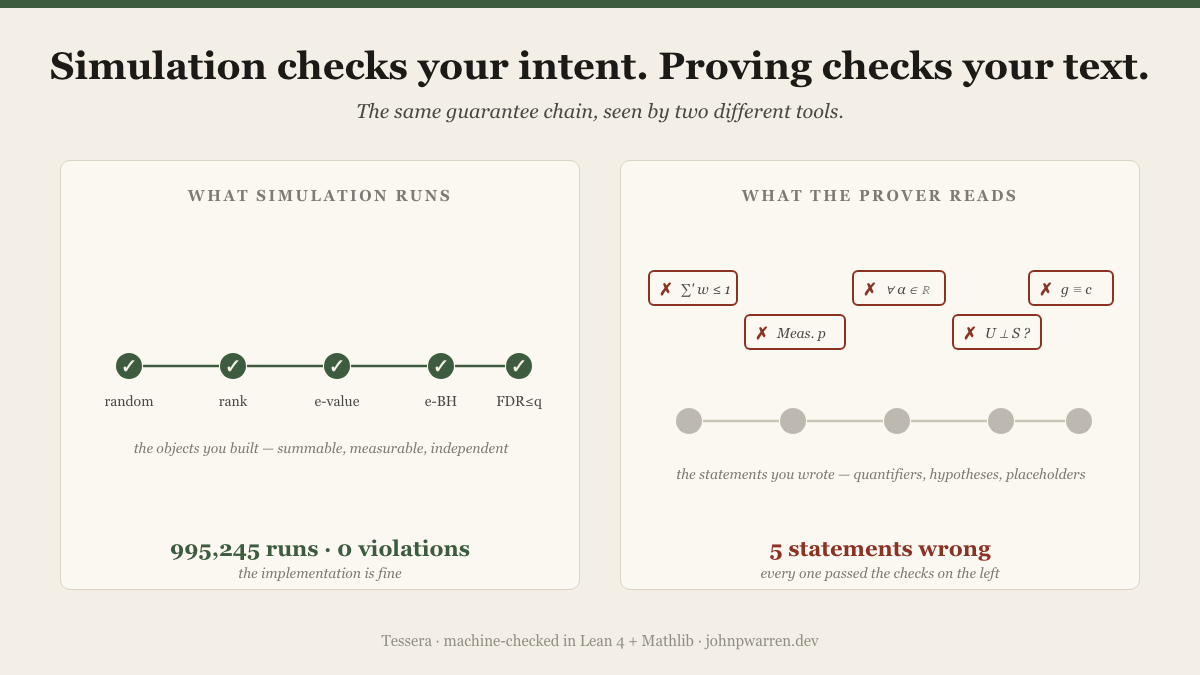
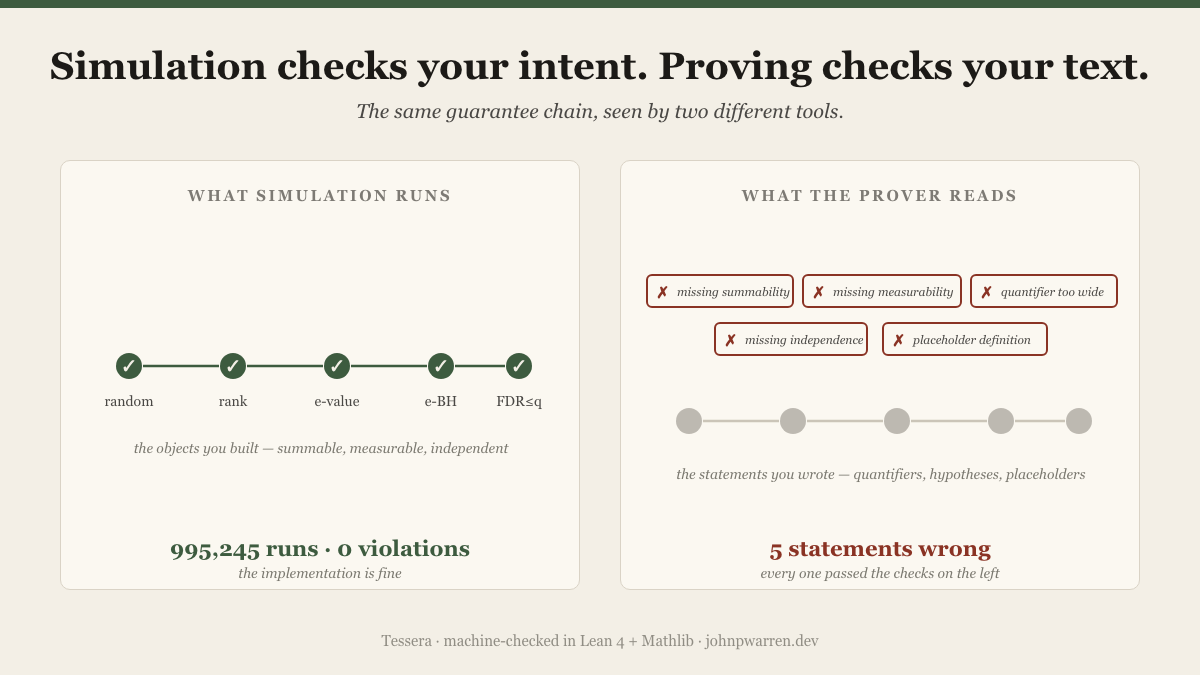
assets: plain-English statement tags on the LinkedIn diagram right panel
Math shorthand replaced with readable labels: missing summability, missing
measurability, quantifier too wide, missing independence, placeholder
definition. Re-rendered and eyeballed; layout reflowed to a 3+2 stagger.

Changed region(s): [[0.5242, 0.4044, 0.9558, 0.5289]]

diff --git a/linkedin/2026-07-tessera-lean-diagram.html b/linkedin/2026-07-tessera-lean-diagram.html
@@ -109,30 +109,30 @@
         </g>
         <!-- five statement tags, red-crossed -->
         <g font-family="Georgia, serif">
-          <g transform="translate(8,40)">
-            <rect width="88" height="34" rx="5" fill="none" stroke="#8A3324" stroke-width="2"/>
-            <text x="12" y="23" fill="#8A3324" font-size="17" font-weight="bold">✗</text>
-            <text x="32" y="23" fill="#4A4845" font-size="14" font-style="italic">∑' w ≤ 1</text>
+          <g transform="translate(6,44)">
+            <rect width="146" height="32" rx="5" fill="none" stroke="#8A3324" stroke-width="2"/>
+            <text x="11" y="22" fill="#8A3324" font-size="16" font-weight="bold">✗</text>
+            <text x="30" y="21" fill="#4A4845" font-size="12" font-style="italic">missing summability</text>
           </g>
-          <g transform="translate(104,84)">
-            <rect width="100" height="34" rx="5" fill="none" stroke="#8A3324" stroke-width="2"/>
-            <text x="12" y="23" fill="#8A3324" font-size="17" font-weight="bold">✗</text>
-            <text x="32" y="23" fill="#4A4845" font-size="14" font-style="italic">Meas. p</text>
+          <g transform="translate(162,44)">
+            <rect width="158" height="32" rx="5" fill="none" stroke="#8A3324" stroke-width="2"/>
+            <text x="11" y="22" fill="#8A3324" font-size="16" font-weight="bold">✗</text>
+            <text x="30" y="21" fill="#4A4845" font-size="12" font-style="italic">missing measurability</text>
           </g>
-          <g transform="translate(212,40)">
-            <rect width="92" height="34" rx="5" fill="none" stroke="#8A3324" stroke-width="2"/>
-            <text x="12" y="23" fill="#8A3324" font-size="17" font-weight="bold">✗</text>
-            <text x="32" y="23" fill="#4A4845" font-size="14" font-style="italic">∀ α ∈ ℝ</text>
+          <g transform="translate(330,44)">
+            <rect width="146" height="32" rx="5" fill="none" stroke="#8A3324" stroke-width="2"/>
+            <text x="11" y="22" fill="#8A3324" font-size="16" font-weight="bold">✗</text>
+            <text x="30" y="21" fill="#4A4845" font-size="12" font-style="italic">quantifier too wide</text>
           </g>
-          <g transform="translate(312,84)">
-            <rect width="88" height="34" rx="5" fill="none" stroke="#8A3324" stroke-width="2"/>
-            <text x="12" y="23" fill="#8A3324" font-size="17" font-weight="bold">✗</text>
-            <text x="32" y="23" fill="#4A4845" font-size="14" font-style="italic">U ⟂ S ?</text>
+          <g transform="translate(74,92)">
+            <rect width="152" height="32" rx="5" fill="none" stroke="#8A3324" stroke-width="2"/>
+            <text x="11" y="22" fill="#8A3324" font-size="16" font-weight="bold">✗</text>
+            <text x="30" y="21" fill="#4A4845" font-size="12" font-style="italic">missing independence</text>
           </g>
-          <g transform="translate(388,40)">
-            <rect width="84" height="34" rx="5" fill="none" stroke="#8A3324" stroke-width="2"/>
-            <text x="12" y="23" fill="#8A3324" font-size="17" font-weight="bold">✗</text>
-            <text x="32" y="23" fill="#4A4845" font-size="14" font-style="italic">g ≡ c</text>
+          <g transform="translate(242,92)">
+            <rect width="164" height="32" rx="5" fill="none" stroke="#8A3324" stroke-width="2"/>
+            <text x="11" y="22" fill="#8A3324" font-size="16" font-weight="bold">✗</text>
+            <text x="30" y="21" fill="#4A4845" font-size="12" font-style="italic">placeholder definition</text>
           </g>
         </g>
         <text x="240" y="248" fill="#7A786F" font-family="Georgia, serif" font-size="14" font-style="italic" text-anchor="middle">the statements you wrote — quantifiers, hypotheses, placeholders</text>
